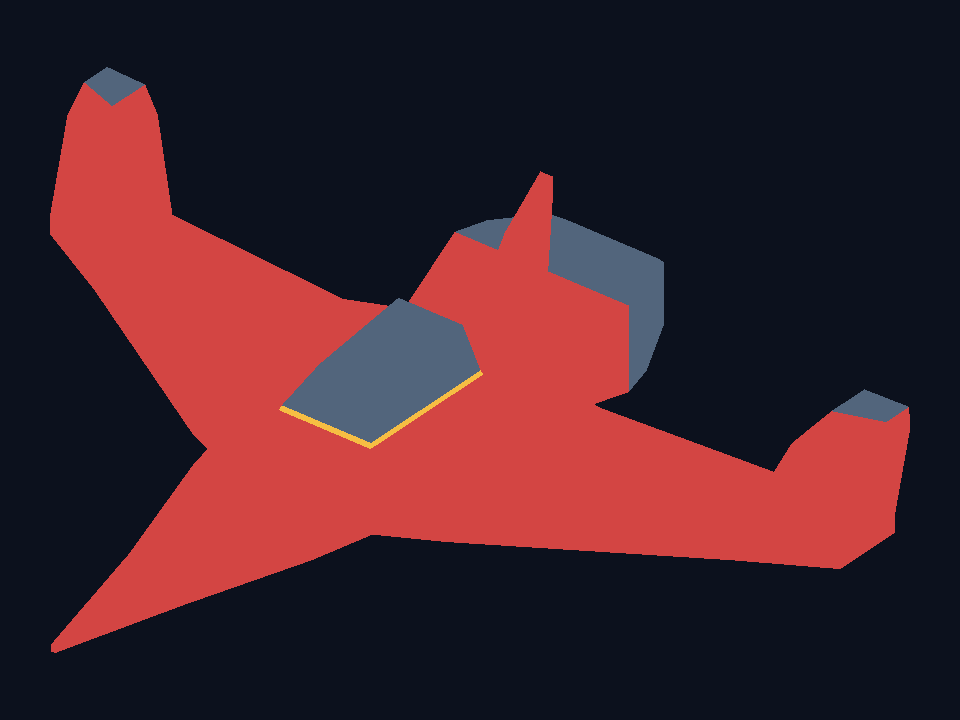
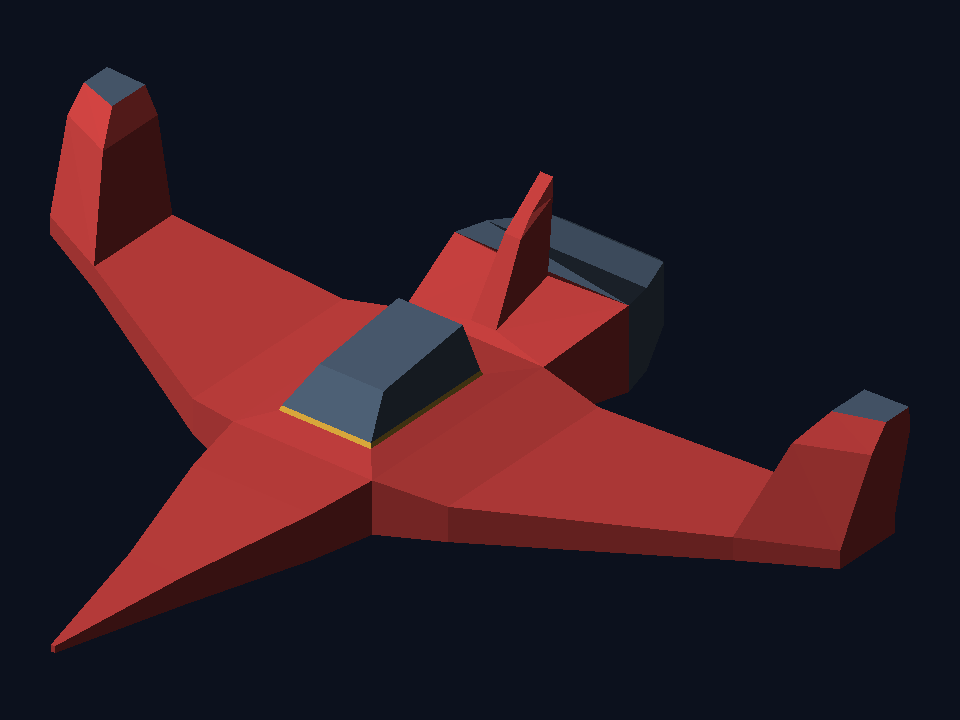
Agrega sombras y mejora iluminación de la nave

Changed region(s): [[0.0312, 0.1222, 0.9688, 0.9167]]

diff --git a/main.cpp b/main.cpp
@@ -28,11 +28,48 @@ Vec3 sub(Vec3 a,Vec3 b){return {a.x-b.x,a.y-b.y,a.z-b.z};}
 Vec3 cross(Vec3 a,Vec3 b){return {a.y*b.z-a.z*b.y,a.z*b.x-a.x*b.z,a.x*b.y-a.y*b.x};}
 Vec3 norm(Vec3 a){float n=std::sqrt(a.x*a.x+a.y*a.y+a.z*a.z);return {a.x/n,a.y/n,a.z/n};}
 float dot(Vec3 a,Vec3 b){return a.x*b.x+a.y*b.y+a.z*b.z;}
+Vec3 add(Vec3 a,Vec3 b){return {a.x+b.x,a.y+b.y,a.z+b.z};}
+Vec3 mul(Vec3 a,float s){return {a.x*s,a.y*s,a.z*s};}
 Color materialColor(const std::string& name){
     if(name=="Rojo") return {211,69,67,255};
     if(name=="Gris_oscuro") return {82,101,124,255};
     if(name=="Amarillo") return {246,190,67,255};
     return {160,177,199,255};
+}
+bool rayHitsTriangle(Vec3 origin,Vec3 direction,Vec3 a,Vec3 b,Vec3 c){
+    const Vec3 edge1=sub(b,a),edge2=sub(c,a);
+    const Vec3 p=cross(direction,edge2);const float determinant=dot(edge1,p);
+    if(std::abs(determinant)<1e-6f)return false;
+    const float inverse=1.0f/determinant;const Vec3 offset=sub(origin,a);
+    const float u=dot(offset,p)*inverse;if(u<0.0f||u>1.0f)return false;
+    const Vec3 q=cross(offset,edge1);const float v=dot(direction,q)*inverse;
+    if(v<0.0f||u+v>1.0f)return false;
+    return dot(edge2,q)*inverse>1e-3f;
+}
+bool isInShadow(const ObjModel& model,std::size_t sourceFace,Vec3 origin,Vec3 lightDirection){
+    // Probamos si otra cara de la nave intercepta el rayo desde esta cara hacia la luz.
+    for(std::size_t i=0;i<model.faces.size();++i){
+        if(i==sourceFace)continue;
+        const Face& face=model.faces[i];
+        if(rayHitsTriangle(origin,lightDirection,model.vertices[face.vertex[0]],model.vertices[face.vertex[1]],model.vertices[face.vertex[2]]))return true;
+    }
+    return false;
+}
+Color litColor(Color base,const ObjModel& model,std::size_t faceIndex,Vec3 lightDirection){
+    const Face& face=model.faces[faceIndex];
+    const Vec3 a=model.vertices[face.vertex[0]],b=model.vertices[face.vertex[1]],c=model.vertices[face.vertex[2]];
+    const Vec3 crossNormal=cross(sub(b,a),sub(c,a));
+    const float normalLength=std::sqrt(dot(crossNormal,crossNormal));
+    if(normalLength<1e-6f)return base;
+    const Vec3 normal=mul(crossNormal,1.0f/normalLength);
+    const Vec3 center=mul(add(add(a,b),c),1.0f/3.0f);
+    // Una luz ambiental conserva detalle en sombra; la luz difusa da volumen a cada faceta.
+    const bool shadowed=isInShadow(model,faceIndex,add(center,mul(lightDirection,1e-3f)),lightDirection);
+    const float diffuse=std::max(0.0f,dot(normal,lightDirection));
+    const float direct=shadowed?diffuse*0.12f:diffuse;
+    const float illumination=0.26f+0.74f*direct;
+    auto shade=[&](std::uint8_t channel){return static_cast<std::uint8_t>(std::clamp(channel*illumination,0.0f,255.0f));};
+    return {shade(base.r),shade(base.g),shade(base.b),base.a};
 }
 void append32(std::vector<std::uint8_t>& out,std::uint32_t n){out.push_back(n>>24);out.push_back(n>>16);out.push_back(n>>8);out.push_back(n);}
 std::uint32_t crc32(const std::uint8_t* p,std::size_t n){std::uint32_t c=0xffffffffu;for(std::size_t i=0;i<n;++i){c^=p[i];for(int b=0;b<8;++b)c=(c>>1)^((c&1)?0xedb88320u:0);}return c^0xffffffffu;}
@@ -53,6 +90,7 @@ void render(const ObjModel& model,Framebuffer& fb,const Camera& camera){
                    std::sin(camera.pitch)};
     const Vec3 forward=norm(sub(target,eye));
     const Vec3 right=norm(cross(forward,{0,0,1})); const Vec3 up=cross(right,forward);
+    const Vec3 lightDirection=norm({-0.35f,-0.55f,0.76f});
     float minX=1e30f,maxX=-1e30f,minY=1e30f,maxY=-1e30f;
     for(const auto& v:model.vertices){const float x=dot(v,right),y=dot(v,up);minX=std::min(minX,x);maxX=std::max(maxX,x);minY=std::min(minY,y);maxY=std::max(maxY,y);}
     const float scale=std::min((fb.width()-100)/(maxX-minX),(fb.height()-100)/(maxY-minY))*camera.zoom;
@@ -60,7 +98,7 @@ void render(const ObjModel& model,Framebuffer& fb,const Camera& camera){
     auto project=[&](Vec3 p){return ScreenVertex{fb.width()*0.5f+(dot(p,right)-cx)*scale,fb.height()*0.5f-(dot(p,up)-cy)*scale,dot(p,forward)};};
     fb.clear(background);
     // Recorremos cada cara, recuperamos sus tres vértices ya convertidos a índices desde cero y rasterizamos.
-    for(const Face& face:model.faces){const Vec3& a=model.vertices[face.vertex[0]];const Vec3& b=model.vertices[face.vertex[1]];const Vec3& c=model.vertices[face.vertex[2]];triangle(fb,project(a),project(b),project(c),materialColor(face.material));}
+    for(std::size_t i=0;i<model.faces.size();++i){const Face& face=model.faces[i];const Vec3& a=model.vertices[face.vertex[0]];const Vec3& b=model.vertices[face.vertex[1]];const Vec3& c=model.vertices[face.vertex[2]];triangle(fb,project(a),project(b),project(c),litColor(materialColor(face.material),model,i,lightDirection));}
 }
 }
 

diff --git a/README.md b/README.md
@@ -40,7 +40,7 @@ El programa espera `assets/nave.obj` relativo al directorio de ejecución. Se pu
 
 El lector propio procesa líneas `v`, `f` y `usemtl`. En cada referencia de cara toma el componente anterior a `/`, admite `v`, `v/vt/vn`, `v//vn`, índices OBJ positivos desde 1 e índices negativos relativos al final de la lista. Los convierte a índices C++ desde 0 y valida que apunten a un vértice existente. Para este archivo las 196 caras son triangulares.
 
-`render()` recorre explícitamente las caras; obtiene los tres vértices por sus índices y llama a `triangle()`. La proyección ortográfica usa una cámara elevada en tres cuartos. Se proyectan todos los vértices primero para obtener la caja completa, luego se calcula una escala uniforme y un desplazamiento central dejando 50 píxeles de margen. El rasterizador recorta el rectángulo de cada triángulo a la pantalla, calcula coordenadas baricéntricas y usa un z-buffer por píxel. La paleta se asigna según `Rojo`, `Gris_oscuro` y `Amarillo`, sin cargar MTL.
+`render()` recorre explícitamente las caras; obtiene los tres vértices por sus índices y llama a `triangle()`. La proyección ortográfica usa una cámara elevada en tres cuartos. Se proyectan todos los vértices primero para obtener la caja completa, luego se calcula una escala uniforme y un desplazamiento central dejando 50 píxeles de margen. El rasterizador recorta el rectángulo de cada triángulo a la pantalla, calcula coordenadas baricéntricas y usa un z-buffer por píxel. Cada cara recibe luz difusa según su normal; además, se lanza un rayo desde su centro hacia una luz direccional. Si otra cara lo bloquea, esa faceta recibe menos luz y forma una sombra dura. La paleta se asigna según `Rojo`, `Gris_oscuro` y `Amarillo`, sin cargar MTL.
 
 ## Controles
 
